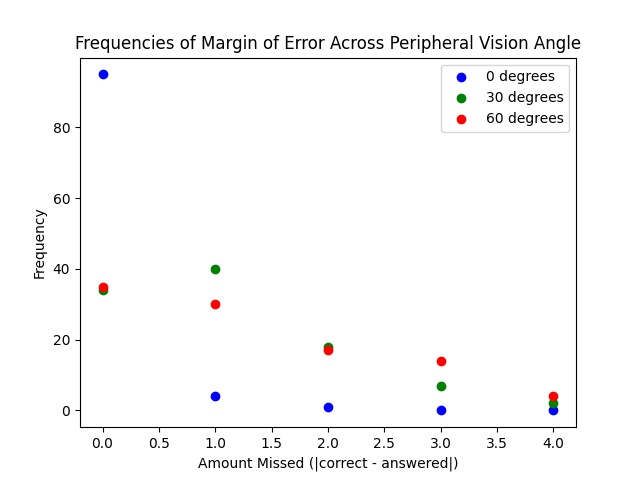
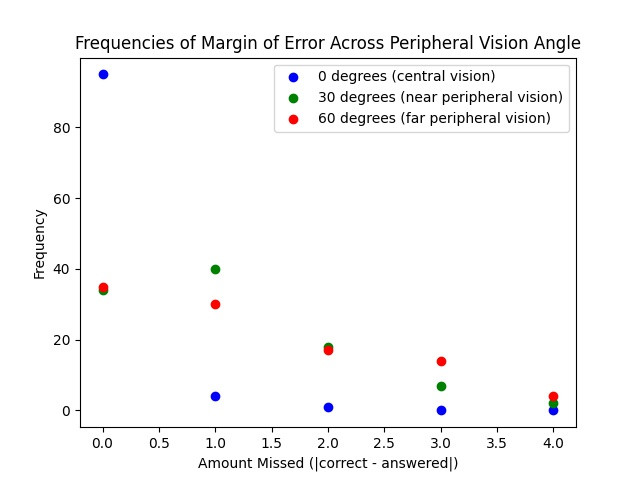
Paper submitted

Changed region(s): [[0.5, 0.125, 0.875, 0.2812], [0.4375, 0.125, 0.4688, 0.2812]]

diff --git a/paper/paper.tex b/paper/paper.tex
@@ -1,9 +1,11 @@
 \documentclass[12pt]{article}
 
 \usepackage{amsmath}
-%\usepackage[margin=1in]{geometry}
+\usepackage[margin=1in]{geometry}
 \usepackage{hyperref}
 \usepackage{graphicx}
+\usepackage[backend=biber]{biblatex}
+\addbibresource{paper.bib}
 \graphicspath{{./images/}}
 \linespread{2}
 
@@ -27,39 +29,41 @@ Stanford Online High School}
 \maketitle
 
 Subitization is the almost instantaneous ability of humans to visually deduce
-the quantity of a certain object (or category) given that the number is small
-enough. For numbers beyond four, humans will instinctually use a system of
-counting and approximation that is less accurate and more time-consuming. When
-one uses this process of subitizing, they are able to recognize the numerosity
-of objects without counting, as if it were an alternate form of perception.  In
-this study, I examined the human’s fundamental skills in “number sense” by
-testing the effect of visual perception on one’s ability to precisely subitize
-a small group of objects. 
+the quantity of a group or category of objects given that the number is small
+enough. For numbers beyond four, humans will instinctually use either a
+system of approximation that is less accurate or an effortful, time-consuming
+counting strategy. When one uses this process of subitizing, they are able to
+recognize the numerosity of objects without counting, as if it were an
+alternate form of perception.  In this study, I examined the human’s
+fundamental skills in “number sense” by testing the effect of visual perception
+on one’s ability to precisely subitize a small group of objects. 
 
-Peripheral vision is the ability of humans to see objects that are not exactly
-on the focus of the eye. Although central vision within the focus requires most
-of our mental resources, such as memory and attention, and allows us to see
-things with sharp detail, peripheral vision enables us to view objects around
-the entire visual field. Peripheral vision is also a vital component of
-detecting motion and supports functions of the central vision. Vision
+Peripheral vision is the ability of humans to see objects that are outside the
+focus of the eye. Although central vision within the focus requires most of our
+mental resources, such as memory and attention, and allows us to see things
+with sharp detail, peripheral vision enables us to view objects around the
+entire visual field. Peripheral vision is also a vital component of detecting
+motions and changes and supports functions of the central vision. Vision
 scientists have shown that peripheral vision has relatively poor resolution and
-acuity. Testing the effect of peripheral vision on one’s
-ability to subitize will thus unveil whether or not visual perception has a
-significant effect on subitization.
+acuity compared to central vision. Testing one’s ability to subitize the number
+of objects presented to the peripheral vision compared to central vision will
+thus unveil whether or not visual resolution has a significant effect on
+subitization ability.
 
-Within my final project for OMSB9, I collected and analyzed data to evaluate the
-ability of people to accurately subitize the number of objects in a drawing along
-different angles of peripheral vision and the time in which an image was
-flashed. I intend to find the accuracy of subitizing across different modes of
-peripheral vision and as to the effect that reaction time has on accuracy.
+In my final project for OMSB9, I collected and analyzed data to evaluate the
+ability of people to accurately subitize the number of objects in a drawing
+along different angles of vision and the time in which an image was presented.
+I intend to find the accuracy of subitizing across different modes of
+peripheral vision and effects of the presentation duration on participants'
+performance.
 
 \section{Methodology}
 
 \subsection{Samples}
 A sample of 5 people was used in this experiment (due to the lack of reachable
-people as a result of COVID-19). I conducted tests on 4 different times (250ms,
+people as a result of COVID-19). I conducted tests on 4 different durations (250ms,
 500ms, 750ms, and 1000ms) and 3 different angles relative to straight ahead
-($0^{\circ}$, $30^{\circ}$, $60^{\circ}$), leading to a net 12 different
+($0^{\circ}$ for central presentation and $30^{\circ}$ and $60^{\circ}$ for near and far-peripheral presentation, respectively), leading to a net 12 different
 variations on the test to perform. Each of these variations was done five times
 per participant.
 
@@ -68,7 +72,7 @@ per participant.
 In order to make the testing procedure more efficient, I wrote a set of PHP
 scripts that could be run in a localhost setting and allow me to both run and record the
 tests. The source code can be found in
-\url{https://github.com/junikimm717/OMSB9-Final-Project/tree/main/website}.
+\href{https://github.com/junikimm717/OMSB9-Final-Project}{this link}.
 
 \subsubsection{Testing Page}
 The testing page is located in the /testing.php file.
@@ -95,11 +99,11 @@ modify if I wanted to change the settings for the next test.
 
 \subsection{Physical Setup}
 A sheet of 11x17 paper was used to make demarcations of 0, 30, and 60 degree
-deviations in order to consistently align the monitor correctly. At the 0
-degree line, an object would be placed (preferably one that is relatively thin)
-for the participant to focus their fovea on while the test is taking place.
-The computer was then placed on one of the lines (for testing a particular
-angle), and the test was initiated.
+deviations from the center of the screen in order to consistently align the
+monitor correctly. At the 0 degree line, an object would be placed (preferably
+one that is relatively thin) for the participant to focus their fovea
+on while the test is taking place.  The computer was then placed on one of the
+lines (for testing a particular angle), and the test was initiated.
 
 
 \begin{figure}
@@ -113,21 +117,21 @@ The raw (unprocessed) data can be found at \\
 \url{https://github.com/junikimm717/OMSB9-Final-Project/tree/main/data/data.txt}
 The data points seen below were all generated with matplotlib.
 
-\begin{figure} [h]
+\begin{figure} [p]
 \centering
-\includegraphics[scale=0.5]{regression.jpg}
+\includegraphics[scale=0.4]{regression.jpg}
 \caption{Standard Deviation of Responses}
 \end{figure}
 
-\begin{figure} [h]
+\begin{figure} [p]
 \centering
-\includegraphics[scale=0.5]{reaction.jpg}
+\includegraphics[scale=0.4]{reaction.jpg}
 \caption{Accuracy across different flash times}
 \end{figure}
 
-\begin{figure} [h]
+\begin{figure} [p]
 \centering
-\includegraphics[scale=0.5]{angle.jpg}
+\includegraphics[scale=0.4]{angle.jpg}
 \caption{Accuracy across different angles}
 \end{figure}
 
@@ -145,31 +149,35 @@ For assessing the standard deviations of participants' responses per answer
 because there was minimal likelihood that the standard deviation of responses
 would have a non-consistent distribution per response.
 
-A PMCC test with the correct answer and the standard deviation of responses
-exhibits a p-value of $2.1 \cdot 10^{-5}$ seems to indicate that there exists a
-statistically highly significant positive correlation.
+In addition, previously cognitive psychologists have found that estimation
+variability grows proportionally to the number of items displayed (\cite{prop})
+
+A product moment correlation test assessing the correlation between the correct
+answer and the standard deviation of responses exhibits a p-value of $2.1 \cdot
+10^{-5}$ seems to indicate that there exists a statistically highly significant
+positive correlation.
 
 \subsection{Accuracy Based on Time Flashed (Figure 3)}
 
-For assessing this correlation, I used a spearman rank correlation coefficient
+For assessing this correlation, I used a Spearman rank correlation coefficient
 (a non-parametric test) in order to assess if there was a significant monotonic
-correlation between precision of the participant and the average reaction time.
+correlation between precision of the participant and the average flash time.
 
-The SRCC was equal to 0.027 and the p-value was 0.638, which indicates that,
-with the data collected, there is no statistically significant
-monotonic correlation between the time given for the participant to look at the
-image and their precision.
+The Spearman rank test statistic was equal to 0.027 and the p-value was 0.638,
+which indicates that, with the data collected, there is no statistically
+significant monotonic correlation between the time given for the
+participant to look at the image and their precision.
 
-This result indicates that there was no speed-accuracy trade-off. In other
-words, the participants in this test did not have to slow down their responses
-to be accurate.
+This result indicates that participants’ subitizing accuracy was not affected
+by the different presentation durations in this experiment. Thus, the shortest
+duration (250 msec) appeared to be sufficient for subitization to be as
+accurate as in the longest duration (1000 msec).
 
 \subsection{Accuracy based on Angle Viewed (Figure 4)}
 
-In order to assess whether or not participants were significantly more or less
-accurate on at least one of the three angles at which they were tested, I
-conducted a one-way ANOVA test (as the data is both parametric and has multiple
-samples).
+In order to assess whether or not participants were significantly accurate on
+at least one of the three angles at which they were tested, I conducted
+a one-way ANOVA test (as the data is both parametric and has multiple samples).
 
 The results show that $F=47.5$ and $p = 1.23 \cdot 10^{-18}$, which indicates
 that there is a statistically highly significant difference between the results
@@ -186,18 +194,19 @@ In order to test whether or not near peripheral vision yielded a statistically
 significantly better precision, I used a two-sample t-test.
 
 The results indicated that $T = -1.707$ and $p = 0.121$, which indicates that
-there is not a statistically significant difference between precision when
+there was no statistically significant difference between precision when
 participants viewed the pictures from $30^{\circ}$ versus $60^{\circ}$.
 
 \section{Conclusions}
-Based on the statistically analyzed data, I have been able to prove that the
-mean precision is different among tests from different angles of vision (3.3).
-However, I have been unable to prove such a difference exists between near and
-far peripheral vision (3.4). As a benchmark, we have also shown a statistically
-significant linear correlation between the amount of error within the
-participants' tests and the number that was displayed in front of them, which
-indicates (as others have previously shown), that the ability of subitization
-decreases as one sees more objects that they must count.
+Based on the data collected and statistically analyzed in this study, I have
+been able to prove that the mean precision is different among tests from
+different angles of vision (Section 3.3).  However, I have been unable to prove
+such a difference exists between near and far peripheral vision (Section 3.4).
+As a benchmark, we have also shown a statistically significant linear
+correlation between the amount of error within the participants' tests and the
+number that was displayed in front of them, which indicates (as others have
+previously shown), that the ability of subitization decreases as one
+sees more objects that they must perceive.
 
 As I had constraints of time and accuracy as a result of being within the
 COVID-19 pandemic, I was unable to get a larger set of peripheral vision angles
@@ -211,5 +220,7 @@ within the browser once I set the flash time to below 150ms. It is possible
 that using a faster GUI program written in a faster environment would have
 allowed me to more closely examine the correlations between flash time and
 subitization ability.
+
+\printbibliography
 
 \end{document}

diff --git a/analysis/analyze.py b/analysis/analyze.py
@@ -95,17 +95,18 @@ def test_5(plot=False) -> None:
                 for i in [0, 30, 60]]
 
         colors = ['blue', 'green', 'red', 'yellow']
+        labels = ['central vision', 'near peripheral vision', 'far peripheral vision']
         for i in range(len(data)):
             lt = data[i]
             angle = 30*i
             f = [freq(lt, j) for j in range(5)]
-            plt.scatter(range(5), f, color=colors[i], label=f'{angle} degrees')
+            plt.scatter(range(5), f, color=colors[i], label=f'{angle} degrees ({labels[i]})')
 
         plt.xlabel("Amount Missed (|correct - answered|)")
         plt.ylabel("Frequency")
         plt.legend(loc='upper right')
         plt.savefig('../paper/images/angle.jpg')
-        #plt.show()
+        plt.show()
 
     else:
         pass
